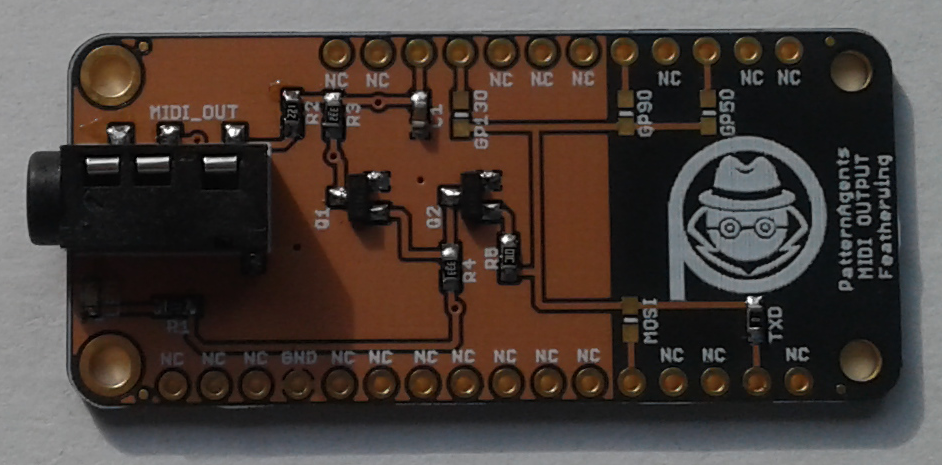
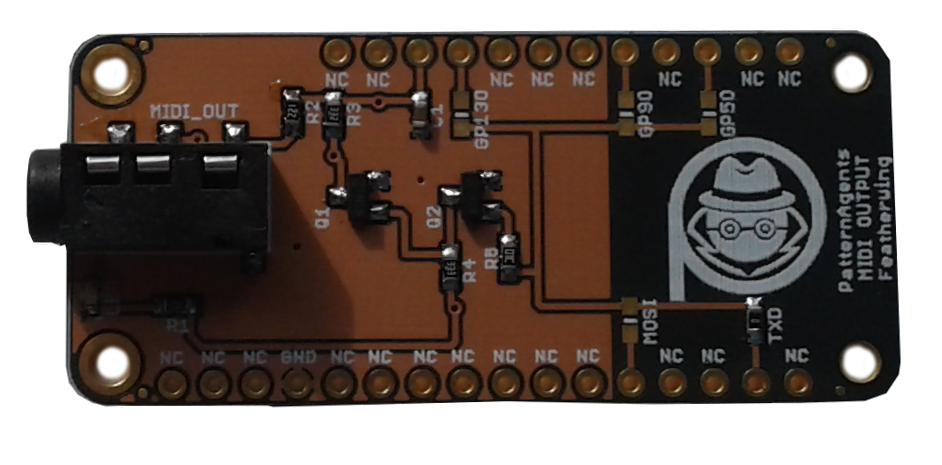
add photos

diff --git a/README.md b/README.md
@@ -18,6 +18,9 @@ to Musical Instruments and Synthesizers using the Musical Instrument Digital Int
 
 [![Agent-MIDI-OUT-FeatherWing Top](https://github.com/patternagents/Agent-MIDI-OUT-FeatherWing/blob/master/Agent-MIDI-OUT-FeatherWing/images/Agent-MIDI-OUT-FeatherWing_BLK_top.png?raw=true)Agent-MIDI-OUT-FeatherWing Top](https://github.com/patternagents/Agent-MIDI-OUT-FeatherWing/)
 
+[![Agent-MIDI-OUT-FeatherWing Top](https://github.com/patternagents/Agent-MIDI-OUT-FeatherWing/blob/master/Agent-MIDI-OUT-FeatherWing/images/Agent-MIDI-OUT-FeatherWing_midnight_top.png?raw=true)Agent-MIDI-OUT-FeatherWing Top](https://github.com/patternagents/Agent-MIDI-OUT-FeatherWing/)
+
+
 ---------------------------------------
 ## Example Applications
 
